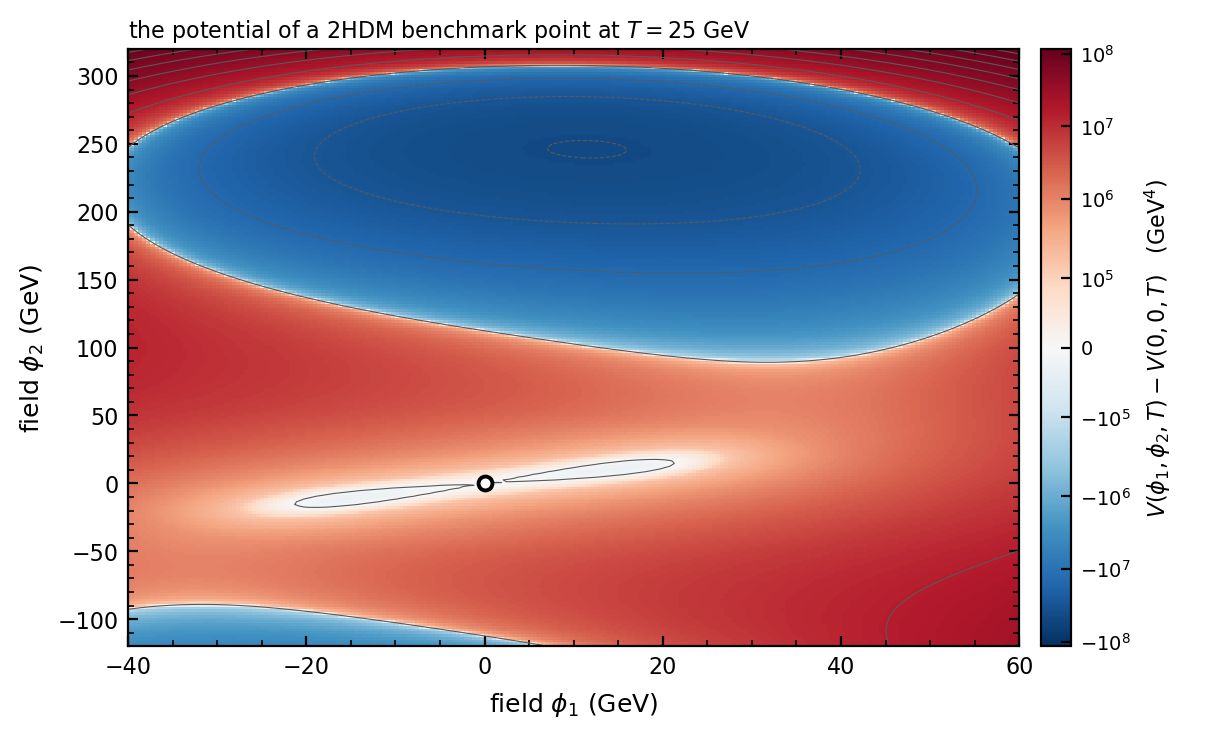
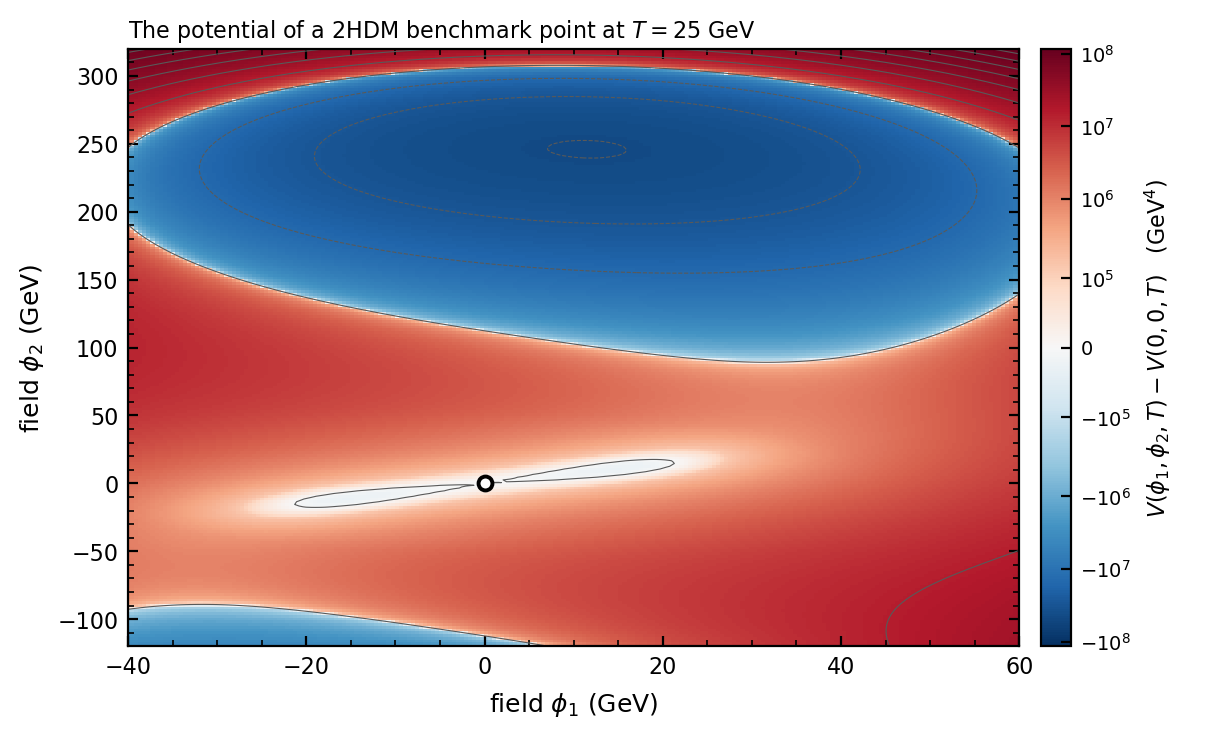
Redraw the shooting, spectrum and plasma figures, and add the reheating figure from the paper

Changed region(s): [[0.0934, 0.0304, 0.623, 0.0608]]

diff --git a/docs/make_algorithm_figures.py b/docs/make_algorithm_figures.py
@@ -126,15 +126,16 @@ def figure_shooting() -> None:
             ha="center", va="center")
 
     # The label sits to the left of both markers, in the wedge below the bounce and left of
-    # where the overshoot falls, and each leader runs up to its own marker from underneath.
-    # Two short lines: a label wide enough to reach the plunging overshoot cannot be put
-    # anywhere in this band without touching it, so the rest of the sentence is in the
-    # caption rather than in the panel.
-    ax.annotate("decision for over- and\nundershoot is decided here",
-                xy=(rv_o, pv_o - 0.016), xytext=(6.4, -0.285), color="0.35", fontsize=7,
-                ha="center", va="center",
-                arrowprops=dict(arrowstyle="->", color="0.45", lw=0.8))
-    ax.annotate("", xy=(rv_u, pv_u - 0.016), xytext=(6.4, -0.235),
+    # where the overshoot falls. Two short lines: a label wide enough to reach the plunging
+    # overshoot cannot be put anywhere in this band without touching it, so the rest of the
+    # sentence is in the caption rather than in the panel.
+    ax.text(6.4, -0.300, "decision for over- and\nundershoot is decided here",
+            color="0.35", fontsize=7, ha="center", va="center")
+    # One leader, into the gap between the two markers. The markers are a tenth of the field
+    # range apart, and two leaders drawn from one label to two points that close either cross
+    # or pass through each other's heads, whatever their tails are offset by.
+    ax.annotate("", xy=(0.5 * (rv_u + rv_o), 0.5 * (pv_u + pv_o) - 0.055),
+                xytext=(7.4, -0.232),
                 arrowprops=dict(arrowstyle="->", color="0.45", lw=0.8))
     ax.legend(frameon=False, loc="upper right")
     fig.subplots_adjust(left=0.100, right=0.985, bottom=0.135, top=0.975)
@@ -349,12 +350,13 @@ def figure_plasma_dof() -> None:
     symmetric = _FixedPhase(origin)
     T2 = np.logspace(-3.0, 4.0, 220)
     X = np.asarray(pot.X0, dtype=float)
-    tot_sym, tot_bro, stable = [], [], []
+    tot_sym, tot_bro, stable, phi_bro = [], [], [], []
     for t in T2:
         t = float(t)
         bath = float(td.e_geffSM_fit(t, 1.0))
         overlap = float(np.squeeze(td.sm_fields_in_potential_geff(pot, t, "e")))
         X = np.asarray(pot.findMinimum(X, t), dtype=float)
+        phi_bro.append(float(np.linalg.norm(X)))
         tot_bro.append(bath - overlap + g_eff_DS(t, pot, _FixedPhase(X)))
         # Whether the origin is a minimum, and whether that verdict means anything. `d2V` is a
         # finite difference of the full potential, which at high temperature is dominated by
@@ -369,6 +371,18 @@ def figure_plasma_dof() -> None:
         tot_sym.append(bath - overlap + g_eff_DS(t, pot, symmetric))
     tot_sym = np.array(tot_sym)
     tot_bro = np.array(tot_bro)
+    phi_bro = np.array(phi_bro)
+
+    # Where the broken minimum stops existing, the minimiser falls into the origin and the
+    # count jumps by three degrees of freedom. The jump is the end of the broken phase, not a
+    # feature of its plasma: on a grid ten times finer the jump is the same size, 3.04 against
+    # 3.22, and sits between 121.5 and 122.0 GeV against 120.8 and 130.1 GeV here. The curve
+    # therefore ends at the last temperature at which the broken minimum exists, which is
+    # marked.
+    collapsed = np.flatnonzero(phi_bro < 0.5 * np.max(phi_bro))
+    bro_end_index = int(collapsed[0]) - 1
+    tot_bro[bro_end_index + 1:] = np.nan
+    bro_end = (float(T2[bro_end_index]), float(tot_bro[bro_end_index]))
 
     # The symmetric phase is drawn on the one contiguous stretch that carries the transition,
     # near 100 GeV. At this benchmark the origin also stops being a minimum in a band near
@@ -422,13 +436,19 @@ def figure_plasma_dof() -> None:
     # temperature axis.
     a1.set_yticks(DOF_TICKS)
     a1.legend(frameon=False, loc="lower right")
-    a1.set_title("the tabulated Standard Model bath on its own", fontsize=8, pad=4)
+    a1.set_title("The tabulated Standard Model bath on its own", fontsize=8, pad=4)
 
     a2.plot(T2, tot_bro, color=DESYdunkelblau, lw=1.6, label="broken phase")
     a2.plot(T2, tot_sym, color=DESYmagenta, lw=1.6, ls=(0, (4, 2)),
             label="symmetric phase")
     a2.plot([sym_end[0]], [sym_end[1]], "o", color=DESYmagenta, ms=4.5, mfc="white",
             mew=1.4, zorder=5)
+    a2.plot([bro_end[0]], [bro_end[1]], "o", color=DESYdunkelblau, ms=4.5, mfc="white",
+            mew=1.4, zorder=5)
+    a2.annotate("above here the broken\nminimum is gone",
+                xy=(bro_end[0] * 1.15, bro_end[1] - 1.0), xytext=(1.1e3, 92.0),
+                color=DESYdunkelblau, fontsize=6.5, ha="center", va="center",
+                arrowprops=dict(arrowstyle="->", color=DESYdunkelblau, lw=0.8))
     a2.annotate("below here the origin\nis not a minimum", xy=(sym_end[0], sym_end[1] + 3.0),
                 xytext=(1.2e0, 112.0), color=DESYmagenta, fontsize=6.5,
                 ha="center", va="center",
@@ -438,6 +458,11 @@ def figure_plasma_dof() -> None:
     # is about. The five temperatures lie inside half a decade, so their labels cannot stand
     # side by side; each tail is at its own height instead, and the label sits at that tail.
     # Read top to bottom, the labels are in the order the modes leave.
+    # Only the modes that leave while the broken phase still exists. The heavy scalars of
+    # this benchmark reach half of their relativistic contribution at 154 GeV, above the
+    # 122 GeV at which the broken minimum is gone, so there is no curve for their arrow to
+    # touch and the text says where they would be instead.
+    half = [(label, t) for label, t in half if t < bro_end[0]]
     for i, (label, t_half) in enumerate(half):
         y_curve = float(np.interp(t_half, T2, tot_bro))
         y_row = 17.0 + 10.5 * i
@@ -457,7 +482,7 @@ def figure_plasma_dof() -> None:
     a2.set_xlim(T[0], T[-1])
     a2.set_ylim(0.0, 125.0)
     a2.legend(frameon=False, loc="lower right")
-    a2.set_title("the whole plasma of a 2HDM benchmark point, in each of its two phases",
+    a2.set_title("The whole plasma of a 2HDM benchmark point, in each of its two phases",
                  fontsize=8, pad=4)
 
     fig.subplots_adjust(left=0.095, right=0.972, bottom=0.085, top=0.950, hspace=0.34)
@@ -585,9 +610,9 @@ def figure_fluid_profiles() -> None:
     a0.plot([xi_d[-1], xi_d[-1]], [vv_d[-1], 0.0], color=DESYcyan, lw=1.6)
     a0.plot([xi_d[-1], 1.0], [0.0, 0.0], color=DESYcyan, lw=1.6)
     frame(a0, 0.125)
-    a0.set_title(r"deflagration:  $v_\mathrm{w} = %.2f < c_\mathrm{s}$" % vw_d,
+    a0.set_title(r"Deflagration:  $v_\mathrm{w} = %.2f < c_\mathrm{s}$" % vw_d,
                  fontsize=8, pad=3, loc="left")
-    a0.text(0.035, 0.100, "the plasma inside the bubble is at rest; the wall\n"
+    a0.text(0.035, 0.100, "the plasma inside the bubble is at rest and the wall\n"
                           "pushes the plasma ahead of it", color="0.40",
             fontsize=6.5, ha="left", va="center")
     a0.text(vw_d - 0.018, 0.5 * v_d, "wall", color=DESYcyan, fontsize=6.5, ha="right",
@@ -606,7 +631,7 @@ def figure_fluid_profiles() -> None:
     a1.plot([xi_ha[-1], xi_ha[-1]], [vv_ha[-1], 0.0], color=DESYorange, lw=1.6)
     a1.plot([xi_ha[-1], 1.0], [0.0, 0.0], color=DESYorange, lw=1.6)
     frame(a1, 0.40)
-    a1.set_title(r"hybrid:  $c_\mathrm{s} < v_\mathrm{w} = %.2f < v_\mathrm{J}$" % vw_h,
+    a1.set_title(r"Hybrid:  $c_\mathrm{s} < v_\mathrm{w} = %.2f < v_\mathrm{J}$" % vw_h,
                  fontsize=8, pad=3, loc="left")
     a1.text(0.035, 0.27, "a rarefaction behind the wall and a shock ahead:\n"
                          "the wall outruns sound but not the shock", color="0.40",
@@ -625,7 +650,7 @@ def figure_fluid_profiles() -> None:
     a2.plot([vw_t, vw_t], [v_t, 0.0], color=DESYmagenta, lw=1.6)
     a2.plot([vw_t, 1.0], [0.0, 0.0], color=DESYmagenta, lw=1.6)
     frame(a2, 0.095)
-    a2.set_title(r"detonation:  $v_\mathrm{w} = %.2f > v_\mathrm{J}$" % vw_t,
+    a2.set_title(r"Detonation:  $v_\mathrm{w} = %.2f > v_\mathrm{J}$" % vw_t,
                  fontsize=8, pad=3, loc="left")
     a2.text(0.035, 0.065, "the wall outruns every signal, so the plasma ahead\n"
                           "is undisturbed and the rarefaction is all behind it",
@@ -705,10 +730,14 @@ def figure_spectrum_sources() -> None:
     ax.set_xlabel(r"frequency $f$ (Hz)")
     ax.set_ylabel(r"$h^2\Omega_{\rm GW}$")
     ax.set_xlim(0.75 * f[0], 1.35 * f[-1])
-    ax.set_ylim(1e-18, 1.0e-5)
+    # The top of the range is set just above the steepest thing the panel has to show, the
+    # sound-wave peak and the floor of the sensitivity curve. Carried to the amplitude the
+    # arms of that curve reach at the edges of the frequency range, the three source spectra
+    # are pressed into the lower third of the panel.
+    ax.set_ylim(1e-18, 1.0e-8)
     # Drop the lowest y tick, which otherwise meets the leftmost x tick at the corner.
     ax.yaxis.set_major_locator(mpl.ticker.LogLocator(base=10.0, numticks=8))
-    ax.set_yticks([t for t in ax.get_yticks() if 1e-17 <= t <= 1e-5])
+    ax.set_yticks([t for t in ax.get_yticks() if 1e-17 <= t <= 1e-8])
     # A legend rather than labels beside the curves: with the LISA band in the panel there is
     # one block of empty space left, at low frequency and high amplitude, and it is too far
     # from any of the three curves to label them there.
@@ -716,14 +745,25 @@ def figure_spectrum_sources() -> None:
     # anywhere inside this panel without covering something, which a scan of the rendered
     # panel says directly.
     ax.legend(frameon=False, loc="upper left", fontsize=7, handlelength=1.6)
-    ax.set_title(
-        r"$\alpha = 0.2$,  $R_* = 0.05$,  $T_\mathrm{reh} = 100$ GeV,  "
-        r"$v_\mathrm{w} = 0.65$,  $c_\mathrm{s} = 1/\sqrt{3}$" "\n"
-        r"$\kappa_\mathrm{sw} = %.3f$ from the fit" "\n"
-        r"$\kappa_\mathrm{turb} = %.3f$,  $\kappa_\phi = 0.02$ set by hand"
-        % (k_sw, 0.1 * k_sw),
-        fontsize=7, pad=5, loc="left")
-    fig.subplots_adjust(left=0.105, right=0.985, bottom=0.105, top=0.885)
+    # The parameters are inside the panel, in a box of their own: they are what the three
+    # curves were computed from, so they are read with them. The box is against the right
+    # spine, two thirds of the way up, which is where a scan of the rendered panel for an
+    # empty rectangle of its size puts it. The corner above it is not free: at an upper
+    # limit of 1e-8 the high-frequency arm of the sensitivity curve and its band cross the
+    # top edge at 0.5 Hz.
+    ax.text(0.99, 0.68,
+            "\n".join([
+                r"$\alpha = 0.2$,  $R_* = 0.05$",
+                r"$T_\mathrm{reh} = 100$ GeV",
+                r"$v_\mathrm{w} = 0.65$,  $c_\mathrm{s} = 1/\sqrt{3}$",
+                r"$\kappa_\mathrm{sw} = %.3f$,  $\kappa_\mathrm{turb} = %.3f$"
+                % (k_sw, 0.1 * k_sw),
+                r"$\kappa_\phi = 0.02$"]),
+            transform=ax.transAxes, fontsize=6.5, ha="right", va="bottom",
+            multialignment="left",
+            bbox=dict(boxstyle="square,pad=0.35", facecolor="white", edgecolor="0.8",
+                      linewidth=0.6))
+    fig.subplots_adjust(left=0.105, right=0.985, bottom=0.105, top=0.975)
     _check(fig, "algorithm_spectrum_sources")
     fig.savefig(OUT / "algorithm_spectrum_sources.png", dpi=200)
     plt.close(fig)
@@ -768,7 +808,7 @@ def figure_potential_2d() -> None:
 
     ax.set_xlabel(r"field $\phi_1$ (GeV)")
     ax.set_ylabel(r"field $\phi_2$ (GeV)")
-    ax.set_title(r"the potential of a 2HDM benchmark point at $T = %.0f$ GeV" % T,
+    ax.set_title(r"The potential of a 2HDM benchmark point at $T = %.0f$ GeV" % T,
                  fontsize=8, pad=4, loc="left")
     ax.set_xlim(x[0], x[-1])
     ax.set_ylim(y[0], y[-1])
